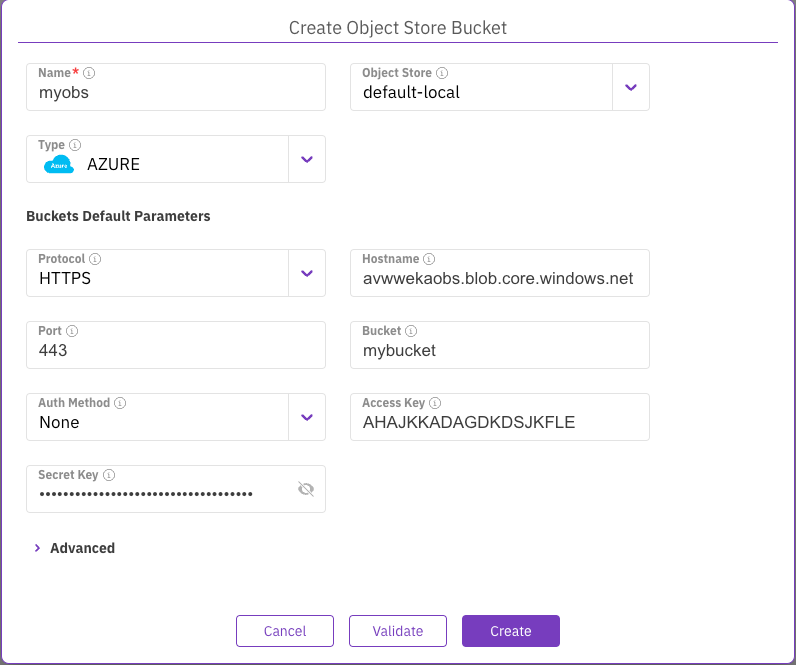
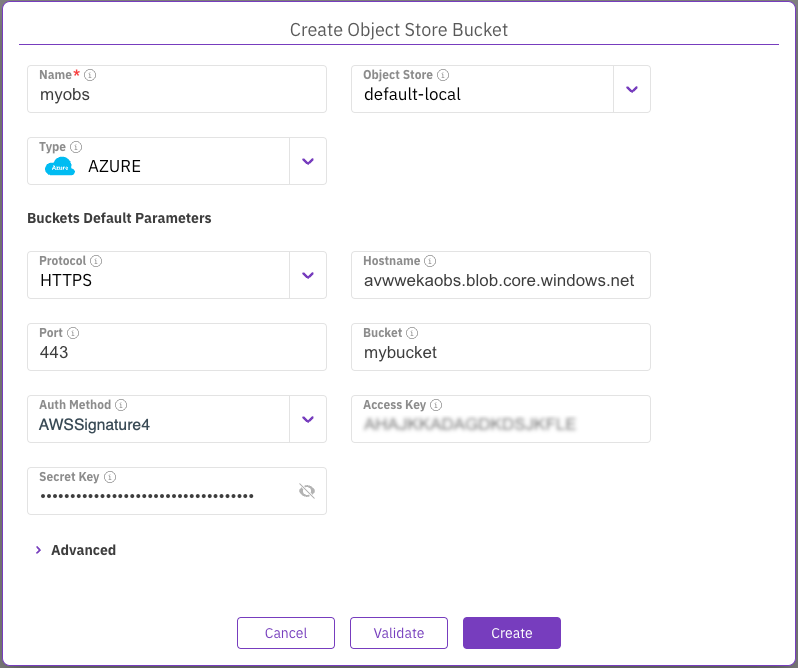
GITBOOK-325: Create OBS for azure: update the image per feedback from benjamin.crist

diff --git a/weka-filesystems-and-object-stores/managing-object-stores/managing-object-stores.md b/weka-filesystems-and-object-stores/managing-object-stores/managing-object-stores.md
@@ -128,7 +128,7 @@ Set the following:
 4. **Auth Method:** Select the authentication method to connect to the bucket.
 5. **Access Key and Secret Key:** Set the the Access Key and Secret Key of the user granted with read/write access to the bucket.
 
-<figure><img src="../../.gitbook/assets/wmng_obs_on_azure (1).png" alt=""><figcaption><p>Azure S3 bucket creation</p></figcaption></figure>
+<figure><img src="../../.gitbook/assets/wmng_create_obs_azure (1).png" alt=""><figcaption><p>Azure S3 bucket creation</p></figcaption></figure>
 {% endtab %}
 {% endtabs %}
 
